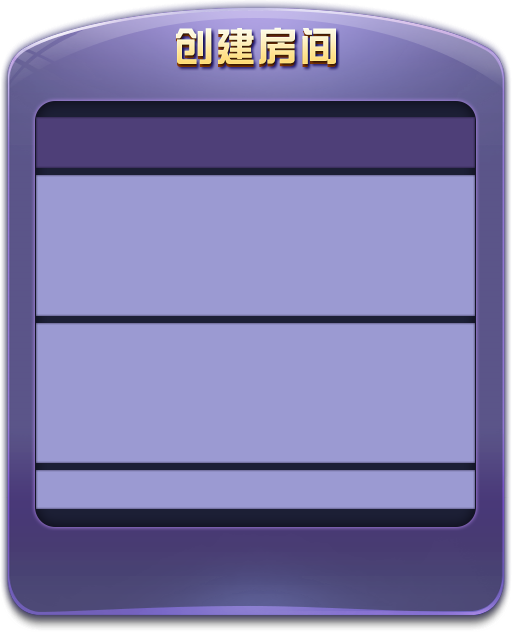
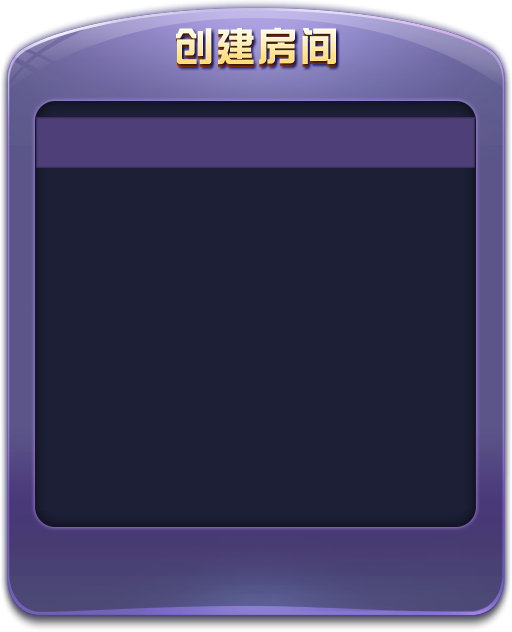
创建房间参数

diff --git a/src/scene/PinShiConfig.ts b/src/scene/PinShiConfig.ts
@@ -19,7 +19,7 @@ class PinShiConfig extends eui.UILayer{
         var request = new egret.HttpRequest();
         request.responseType = egret.HttpResponseType.TEXT;
         //设置为 POST 请求
-        request.open("http://ann.baoying1688.com/game/roomConfig",egret.HttpMethod.POST);
+        request.open("http://154.48.225.93/game/roomConfig",egret.HttpMethod.POST);
         request.setRequestHeader("Content-Type", "application/x-www-form-urlencoded");
         request.send();
         request.addEventListener(egret.Event.COMPLETE,this.onPostComplete,this);
@@ -40,13 +40,29 @@ class PinShiConfig extends eui.UILayer{
         configbg.width = this.stage.stageWidth;
         configbg.height = this.stage.stageHeight;
         this.addChild(configbg);
+
+
         let createRoom = this.createBitmapByName("create_png");
         createRoom.width = 512;
         createRoom.height = 632;
         createRoom.scaleX = 1;
         createRoom.x = (this.stage.stageWidth - 512)/2;
         createRoom.y = (this.stage.stageHeight - 632)/2;
-        this.addChild(createRoom)
+        this.addChild(createRoom);
+
+        let brief = new eui.Label();
+        brief.text = "创建房间,游戏未进行，不消耗房卡";
+        brief.textColor = 0xf8e0ac;
+        brief.size = 20;
+        brief.width = 512;
+        brief.height = 51;
+        brief.x = (this.stage.stageWidth - 512)/2;
+        brief.y = (this.stage.stageHeight - 632)/2 + 117;
+        brief.textAlign = "center";
+        brief.verticalAlign = "middle";
+        this.addChild(brief)
+
+
         let goBack = this.createBitmapByName("close_png");
         goBack.x = (this.stage.stageWidth - 512)/2 + 512 - 50;
         goBack.y = (this.stage.stageHeight - 632)/2 + 10;
@@ -54,15 +70,28 @@ class PinShiConfig extends eui.UILayer{
         goBack.addEventListener(egret.TouchEvent.TOUCH_TAP,this.onTouch,this);
         this.addChild(goBack);
 
+        let button_enter = new  eui.Image();
+        button_enter.source = "button_enter_png";
+        button_enter.width = 178;
+        button_enter.height = 71;
+        button_enter.x = (this.stage.stageWidth - 178)/2;
+        button_enter.y = (this.stage.stageHeight - 632)/2 + 632 - 98;
+        button_enter.addEventListener(egret.TouchEvent.TOUCH_TAP,this.btnTouchHandler,this);
+        this.addChild(button_enter);
+
+
         var room_config = JSON.parse(request.response).roomConfig
         var containerGroup = new eui.Group();
 
         for (var key in room_config) {
             let configGroup = new eui.Group();
             let configOptionGroup = new eui.Group();
+            let OptionGroup = new eui.Group();
+
             let config_i18n = new eui.Label();
             let _text = {"gameDf" : "底分", "gameGz": "规则", "gameJs" :"局数", "gamePs": "牌型", "peopleNumber": "人数"}[key]
             config_i18n.text = _text;
+            config_i18n.size = 20;
             configGroup.addChild(config_i18n)
             // 选项
             for (var i = 0; i < room_config[key].length; ++i) {
@@ -70,32 +99,33 @@ class PinShiConfig extends eui.UILayer{
                 rdb.label = room_config[key][i].text;
                 rdb.value = room_config[key][i].key;
                 rdb.groupName = key;
-                rdb.addEventListener(eui.UIEvent.CHANGE,
-                    this.radioChangeHandler,
-                    this);
+                rdb.addEventListener(eui.UIEvent.CHANGE, this.radioChangeHandler, this);
                 if (i == 0 ) {
                     rdb.selected = true
                     roomConfig[key] = room_config[key][i].key
                 }
                 configOptionGroup.addChild(rdb)
             }
-            configOptionGroup.layout = new eui.HorizontalLayout();
-            configGroup.addChild(configOptionGroup);
-            containerGroup.addChild(configGroup);
-            containerGroup.addChild(configOptionGroup);
+            configOptionGroup.layout = new eui.VerticalLayout();
+            OptionGroup.addChild(configGroup);
+            OptionGroup.addChild(configOptionGroup);
+            OptionGroup.layout = new eui.HorizontalLayout();
+            // containerGroup.addChild(configGroup);
+            containerGroup.addChild(OptionGroup);
         }
         this.addChild(containerGroup);
         containerGroup.layout = new eui.VerticalLayout();
 
+        var myScroller = new eui.Scroller();
+        //注意位置和尺寸的设置是在Scroller上面，而不是容器上面
+        myScroller.width = 380;
+        myScroller.height = 336;
+        myScroller.x = (this.stage.stageWidth - 380)/2;
+        myScroller.y = (this.stage.stageHeight - 632)/2 + 180;
+        //设置viewport
+        myScroller.viewport = containerGroup;
+        this.addChild(myScroller);
 
-        var button = new eui.Button();
-        button.width = 100;
-        button.height = 40;
-        button.label = "Confirm";
-        button.horizontalCenter = 0;
-        button.verticalCenter = 0;
-        button.addEventListener(egret.TouchEvent.TOUCH_TAP,this.btnTouchHandler,this);
-        containerGroup.addChild(button);
     }
     private onPostIOError(event:egret.IOErrorEvent):void {
         console.log("post error : " + event);

diff --git a/bin-debug/scene/PinShiConfig.js b/bin-debug/scene/PinShiConfig.js
@@ -27,7 +27,7 @@ var PinShiConfig = (function (_super) {
         var request = new egret.HttpRequest();
         request.responseType = egret.HttpResponseType.TEXT;
         //设置为 POST 请求
-        request.open("http://ann.baoying1688.com/game/roomConfig", egret.HttpMethod.POST);
+        request.open("http://154.48.225.93/game/roomConfig", egret.HttpMethod.POST);
         request.setRequestHeader("Content-Type", "application/x-www-form-urlencoded");
         request.send();
         request.addEventListener(egret.Event.COMPLETE, this.onPostComplete, this);
@@ -54,20 +54,41 @@ var PinShiConfig = (function (_super) {
         createRoom.x = (this.stage.stageWidth - 512) / 2;
         createRoom.y = (this.stage.stageHeight - 632) / 2;
         this.addChild(createRoom);
+        var brief = new eui.Label();
+        brief.text = "创建房间,游戏未进行，不消耗房卡";
+        brief.textColor = 0xf8e0ac;
+        brief.size = 20;
+        brief.width = 512;
+        brief.height = 51;
+        brief.x = (this.stage.stageWidth - 512) / 2;
+        brief.y = (this.stage.stageHeight - 632) / 2 + 117;
+        brief.textAlign = "center";
+        brief.verticalAlign = "middle";
+        this.addChild(brief);
         var goBack = this.createBitmapByName("close_png");
         goBack.x = (this.stage.stageWidth - 512) / 2 + 512 - 50;
         goBack.y = (this.stage.stageHeight - 632) / 2 + 10;
         goBack.touchEnabled = true;
         goBack.addEventListener(egret.TouchEvent.TOUCH_TAP, this.onTouch, this);
         this.addChild(goBack);
+        var button_enter = new eui.Image();
+        button_enter.source = "button_enter_png";
+        button_enter.width = 178;
+        button_enter.height = 71;
+        button_enter.x = (this.stage.stageWidth - 178) / 2;
+        button_enter.y = (this.stage.stageHeight - 632) / 2 + 632 - 98;
+        button_enter.addEventListener(egret.TouchEvent.TOUCH_TAP, this.btnTouchHandler, this);
+        this.addChild(button_enter);
         var room_config = JSON.parse(request.response).roomConfig;
         var containerGroup = new eui.Group();
         for (var key in room_config) {
             var configGroup = new eui.Group();
             var configOptionGroup = new eui.Group();
+            var OptionGroup = new eui.Group();
             var config_i18n = new eui.Label();
             var _text = { "gameDf": "底分", "gameGz": "规则", "gameJs": "局数", "gamePs": "牌型", "peopleNumber": "人数" }[key];
             config_i18n.text = _text;
+            config_i18n.size = 20;
             configGroup.addChild(config_i18n);
             // 选项
             for (var i = 0; i < room_config[key].length; ++i) {
@@ -82,21 +103,24 @@ var PinShiConfig = (function (_super) {
                 }
                 configOptionGroup.addChild(rdb);
             }
-            configOptionGroup.layout = new eui.HorizontalLayout();
-            configGroup.addChild(configOptionGroup);
-            containerGroup.addChild(configGroup);
-            containerGroup.addChild(configOptionGroup);
+            configOptionGroup.layout = new eui.VerticalLayout();
+            OptionGroup.addChild(configGroup);
+            OptionGroup.addChild(configOptionGroup);
+            OptionGroup.layout = new eui.HorizontalLayout();
+            // containerGroup.addChild(configGroup);
+            containerGroup.addChild(OptionGroup);
         }
         this.addChild(containerGroup);
         containerGroup.layout = new eui.VerticalLayout();
-        var button = new eui.Button();
-        button.width = 100;
-        button.height = 40;
-        button.label = "Confirm";
-        button.horizontalCenter = 0;
-        button.verticalCenter = 0;
-        button.addEventListener(egret.TouchEvent.TOUCH_TAP, this.btnTouchHandler, this);
-        containerGroup.addChild(button);
+        var myScroller = new eui.Scroller();
+        //注意位置和尺寸的设置是在Scroller上面，而不是容器上面
+        myScroller.width = 380;
+        myScroller.height = 336;
+        myScroller.x = (this.stage.stageWidth - 380) / 2;
+        myScroller.y = (this.stage.stageHeight - 632) / 2 + 180;
+        //设置viewport
+        myScroller.viewport = containerGroup;
+        this.addChild(myScroller);
     };
     PinShiConfig.prototype.onPostIOError = function (event) {
         console.log("post error : " + event);

diff --git a/src/scene/HallScene.ts b/src/scene/HallScene.ts
@@ -17,9 +17,6 @@ class HallScene extends eui.UILayer{
         sky.height = stageH;
         this.addChild(sky);
 
-
-
-
         // 头像背景
         let avatar_bg = this.createBitmapByName("avatarbg_jpg");
         avatar_bg.width = stageW;
@@ -34,22 +31,12 @@ class HallScene extends eui.UILayer{
         imageLoader.load(userSession().url);
 
 
-
-
-        // let avatar = this.createBitmapByName("avatar_jpg");
-
-        // this.addChild(avatar);
-
-
-
         var userName:egret.TextField = new egret.TextField();
         userName.text =  userSession().name;
         userName.size = 25;
         userName.x = 140;
         userName.y = 48;
         this.addChild(userName);
-
-
 
 
         let balancebg = this.createBitmapByName("balancbg_png");
@@ -70,7 +57,6 @@ class HallScene extends eui.UILayer{
         userAccount.y = 55;
         this.addChild(userAccount);
 
-
         var userId:egret.TextField = new egret.TextField();
         userId.text = "ID:"+ userSession().openId;
         userId.size = 25;
@@ -78,37 +64,15 @@ class HallScene extends eui.UILayer{
         userId.y = 90;
         this.addChild(userId);
 
-
-
-
-
-
-
-
-        // var request = new egret.HttpRequest();
-        // request.responseType = egret.HttpResponseType.TEXT;
-
-        // // //设置为 POST 请求
-        // // request.open("http://httpbin.org/post",egret.HttpMethod.POST);
-        // // request.setRequestHeader("Content-Type", "application/x-www-form-urlencoded");
-        // // request.send();
-        // // request.addEventListener(egret.Event.COMPLETE,this.onPostComplete,this);
-        // // request.addEventListener(egret.IOErrorEvent.IO_ERROR,this.onPostIOError,this);
-        // // request.addEventListener(egret.ProgressEvent.PROGRESS,this.onPostProgress,this);
-        // // // console.log(callJsFunc("a"))
-
-
         var img:egret.Bitmap = new egret.Bitmap();
         img.texture = RES.getRes("game1_png");
         img.width = 678;
         img.height = 298;
         img.scaleX = 0.9;
         img.scaleY = 0.9;
-        // img.height = 298;
         img.x = 15;
         img.y = 180;
         this.addChild(img);
-
 
         let button_a = this.createBitmapByName("button_png");
         button_a.x = 350;
@@ -119,12 +83,6 @@ class HallScene extends eui.UILayer{
         button_a.addEventListener(egret.TouchEvent.TOUCH_BEGIN,this.touchBegin,this)
         button_a.addEventListener(egret.TouchEvent.TOUCH_TAP,this.onTouch,this);
         button_a.addEventListener(egret.TouchEvent.TOUCH_MOVE,this.onMove,this);
-        // var button = new eui.Button();
-        // button.x = 350;
-        // button.y = 347;
-        // button.skinName = "resource/game/ButtonSkin.exml";
-        // this.addChild(button);
-        // button.addEventListener(egret.TouchEvent.TOUCH_TAP,this.btnTouchHandler,this);
 
     }
     private touchBegin(evt:egret.TouchEvent){

diff --git a/bin-debug/scene/HallScene.js b/bin-debug/scene/HallScene.js
@@ -37,8 +37,6 @@ var HallScene = (function (_super) {
         var imageLoader = new egret.ImageLoader();
         imageLoader.addEventListener(egret.Event.COMPLETE, this.loadCompleteHandler, this);
         imageLoader.load(userSession().url);
-        // let avatar = this.createBitmapByName("avatar_jpg");
-        // this.addChild(avatar);
         var userName = new egret.TextField();
         userName.text = userSession().name;
         userName.size = 25;
@@ -66,23 +64,12 @@ var HallScene = (function (_super) {
         userId.x = 140;
         userId.y = 90;
         this.addChild(userId);
-        // var request = new egret.HttpRequest();
-        // request.responseType = egret.HttpResponseType.TEXT;
-        // // //设置为 POST 请求
-        // // request.open("http://httpbin.org/post",egret.HttpMethod.POST);
-        // // request.setRequestHeader("Content-Type", "application/x-www-form-urlencoded");
-        // // request.send();
-        // // request.addEventListener(egret.Event.COMPLETE,this.onPostComplete,this);
-        // // request.addEventListener(egret.IOErrorEvent.IO_ERROR,this.onPostIOError,this);
-        // // request.addEventListener(egret.ProgressEvent.PROGRESS,this.onPostProgress,this);
-        // // // console.log(callJsFunc("a"))
         var img = new egret.Bitmap();
         img.texture = RES.getRes("game1_png");
         img.width = 678;
         img.height = 298;
         img.scaleX = 0.9;
         img.scaleY = 0.9;
-        // img.height = 298;
         img.x = 15;
         img.y = 180;
         this.addChild(img);
@@ -95,12 +82,6 @@ var HallScene = (function (_super) {
         button_a.addEventListener(egret.TouchEvent.TOUCH_BEGIN, this.touchBegin, this);
         button_a.addEventListener(egret.TouchEvent.TOUCH_TAP, this.onTouch, this);
         button_a.addEventListener(egret.TouchEvent.TOUCH_MOVE, this.onMove, this);
-        // var button = new eui.Button();
-        // button.x = 350;
-        // button.y = 347;
-        // button.skinName = "resource/game/ButtonSkin.exml";
-        // this.addChild(button);
-        // button.addEventListener(egret.TouchEvent.TOUCH_TAP,this.btnTouchHandler,this);
     };
     HallScene.prototype.touchBegin = function (evt) {
         // evt.currentTarget.scaleX = 0.8
